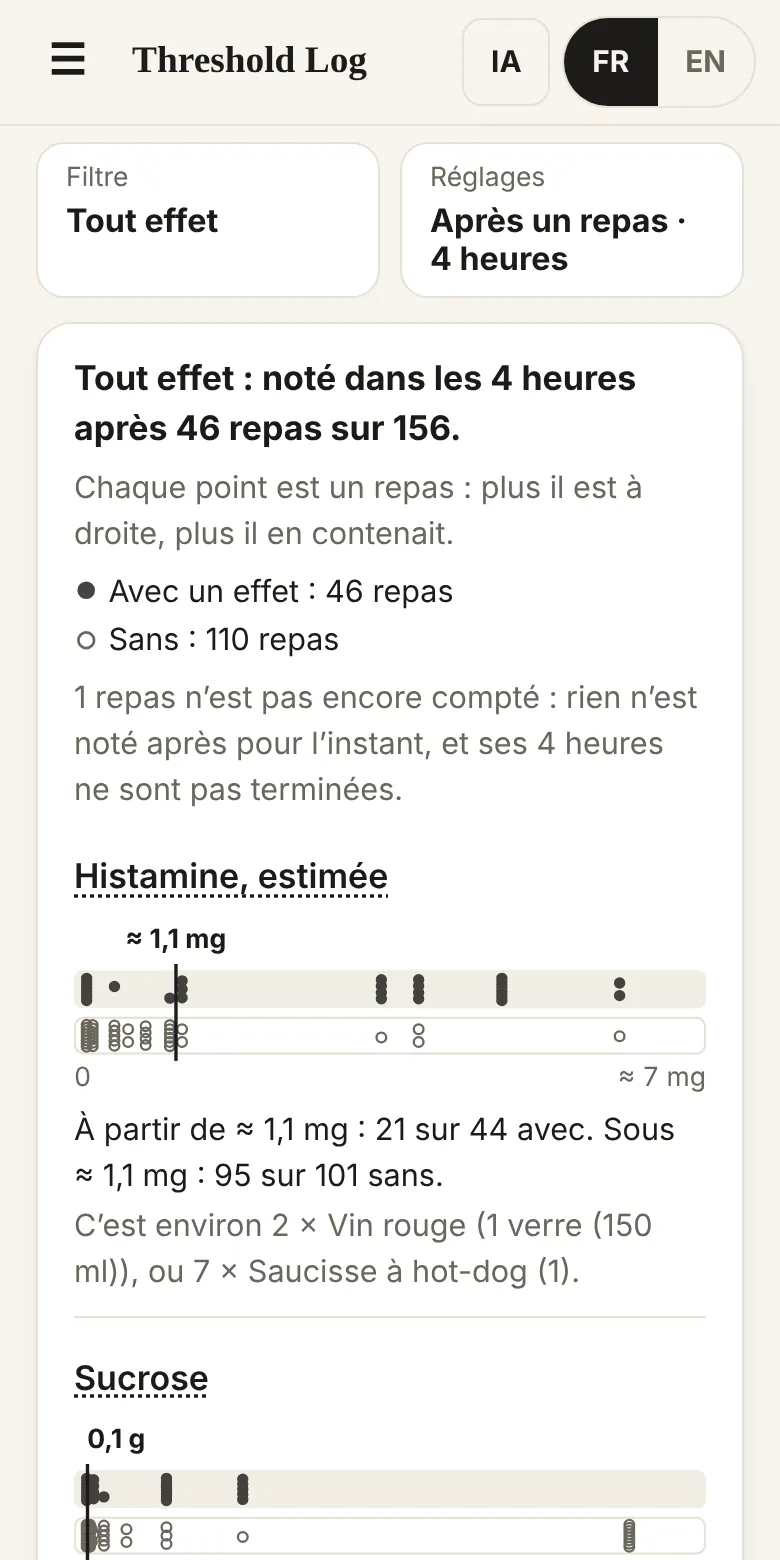
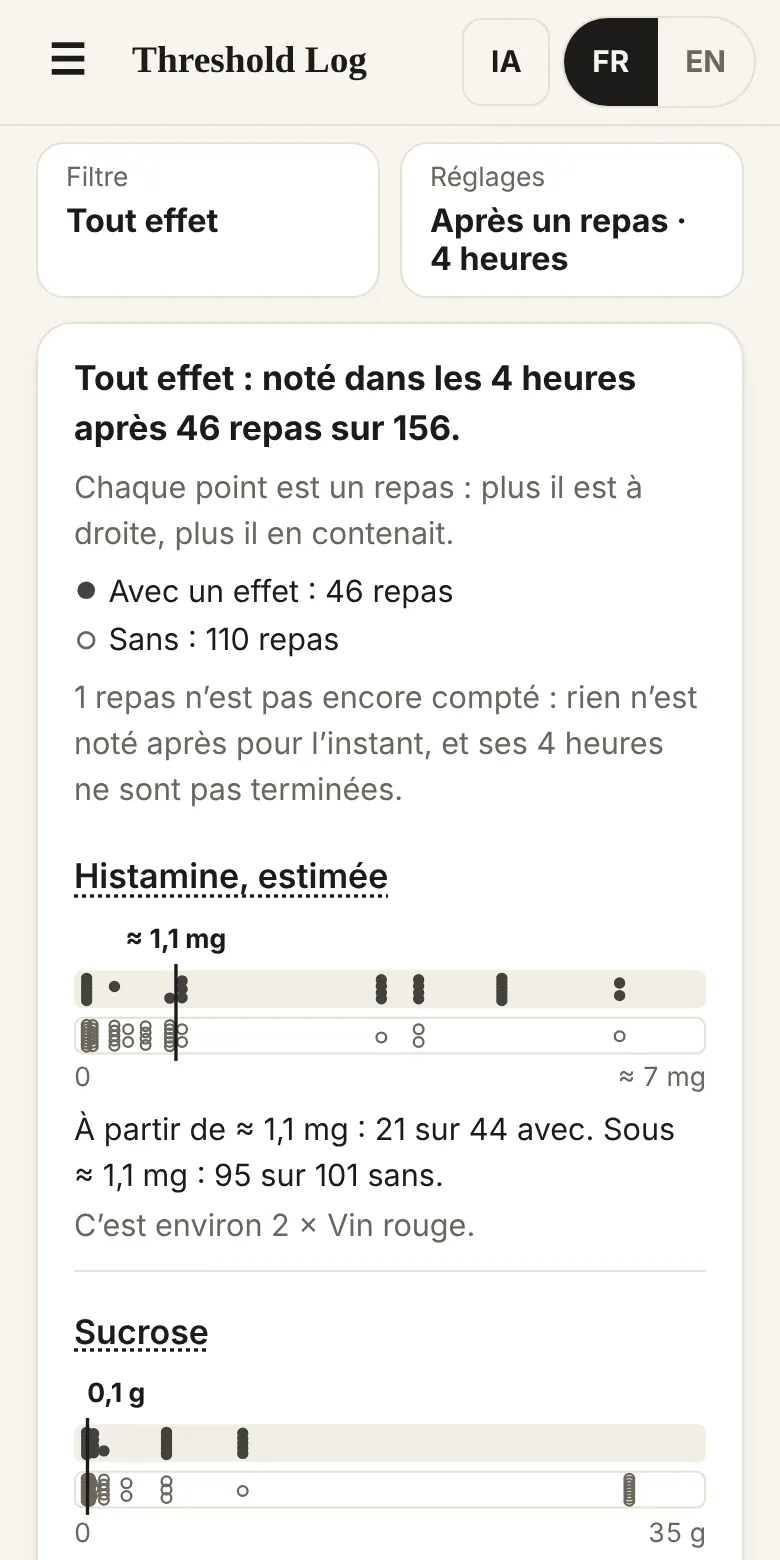
Threshold Log: one food in the "That’s about" line
The line under a mark in the Threshold tab named two foods with their
servings in brackets ("That’s about 2 × Wine, red (1 glass (150 ml)),
or 7 × Hot dog wiener (1).") and ran to three lines at 320 pixels. It
now names the one food that held the compound on the most meals or
days, as the meal list writes a food: "That’s about 2 × Wine, red." /
« C’est environ 2 × Vin rouge. »

The page's pictures are made again (pictures.js); the home and step
pictures also pick up tonight's French. threshold/README.md says so.
All tests pass.

Claude-Session: https://claude.ai/code/session_0165oQGZXNu1ULEJPAkewgjN

Changed region(s): [[0.0923, 0.7692, 0.9231, 1.0]]

diff --git a/threshold/app/index.html b/threshold/app/index.html
@@ -1248,12 +1248,12 @@ function dotSvg(r,label){ const X=x=>dotX(r,x); let a='', b='';
 function markTxt(b,s){ if(s.at==null) return ''; const at=amtTxt(b,s.at);
   const hi=L(`From ${at} up`,`À partir de ${at}`), lo=L(`Under ${at}`,`Sous ${at}`), wi=L(`${s.hitIn} of ${s.nHit} with`,`${s.hitIn} sur ${s.nHit} avec`), wo=L(`${s.restIn} of ${s.nRest} without`,`${s.restIn} sur ${s.nRest} sans`);
   return s.dir==='down'?`${lo}${COL()}${wi}. ${hi}${COL()}${wo}.`:`${hi}${COL()}${wi}. ${lo}${COL()}${wo}.`; }
-/* the mark in the person's own foods: for the two foods that held it on the most of their meals or days, how many servings come to its amount.
-   Only where a row is in grams or milligrams; a row in portions already reads in portions. */
+/* the mark in the person's own foods: for the food that held it on the most of their meals or days, how many servings come to its amount,
+   written as the meal list writes a food ("2 × Wine, red"). Only where a row is in grams or milligrams; a row in portions already reads in portions. */
 const half=n=>n<2?Math.max(.5,Math.round(n*2)/2):Math.round(n), qn=n=>(n%1?(Math.floor(n)?Math.floor(n):'')+'½':String(n));
-function inFoods(r){ if(r.s.at==null||isP(r.b)) return ''; const F=lineFoods({b:r.b,mode:S.tmode,units:r.units}).map(a=>{ const p=E.amounts(food(a.key),1)[r.b]; return p>E.ZEPS?{f:food(a.key),n:r.s.at/p}:null; }).filter(a=>a&&a.n>=.25&&a.n<=30).slice(0,2);
-  if(!F.length) return ''; const one=a=>`${qn(half(a.n))} × ${fname(a.f)}${fserv(a.f)?' ('+fserv(a.f)+')':''}`;
-  return L('That’s about ','C’est environ ')+F.map(one).join(L(', or ',', ou '))+'.'; }
+function inFoods(r){ if(r.s.at==null||isP(r.b)) return ''; const F=lineFoods({b:r.b,mode:S.tmode,units:r.units}).map(a=>{ const p=E.amounts(food(a.key),1)[r.b]; return p>E.ZEPS?{f:food(a.key),n:r.s.at/p}:null; }).filter(a=>a&&a.n>=.25&&a.n<=30).slice(0,1);
+  if(!F.length) return '';
+  return L('That’s about ','C’est environ ')+`${qn(half(F[0].n))} × ${fname(F[0].f)}.`; }
 function dotRow(r,kid){ const s=r.s, nm=L(BARN[r.b][0],BARN[r.b][1]), at=s.at==null?null:amtTxt(r.b,s.at), pc=s.at==null?0:100*markX(r)/DW, txt=markTxt(r.b,s), inf=inFoods(r);
   const label=nm+L(': ',' : ')+L(`${s.nHit} with, ${s.nRest} without, by amount.`,`${s.nHit} avec, ${s.nRest} sans, selon la quantité.`)+(txt?' '+txt:'');
   return `<li class="drow${kid?' kid':''}" data-k="${r.b}" data-hit="${s.nHit}" data-rest="${s.nRest}"${s.at==null?'':` data-at="${s.at}" data-dir="${s.dir}" data-hitin="${s.hitIn}" data-restin="${s.restIn}"`}><button type="button" class="rowb" data-act="rowsheet" data-k="${r.b}">${nm}</button>

diff --git a/tools/threshold/src/app_b.js b/tools/threshold/src/app_b.js
@@ -158,12 +158,12 @@ function dotSvg(r,label){ const X=x=>dotX(r,x); let a='', b='';
 function markTxt(b,s){ if(s.at==null) return ''; const at=amtTxt(b,s.at);
   const hi=L(`From ${at} up`,`À partir de ${at}`), lo=L(`Under ${at}`,`Sous ${at}`), wi=L(`${s.hitIn} of ${s.nHit} with`,`${s.hitIn} sur ${s.nHit} avec`), wo=L(`${s.restIn} of ${s.nRest} without`,`${s.restIn} sur ${s.nRest} sans`);
   return s.dir==='down'?`${lo}${COL()}${wi}. ${hi}${COL()}${wo}.`:`${hi}${COL()}${wi}. ${lo}${COL()}${wo}.`; }
-/* the mark in the person's own foods: for the two foods that held it on the most of their meals or days, how many servings come to its amount.
-   Only where a row is in grams or milligrams; a row in portions already reads in portions. */
+/* the mark in the person's own foods: for the food that held it on the most of their meals or days, how many servings come to its amount,
+   written as the meal list writes a food ("2 × Wine, red"). Only where a row is in grams or milligrams; a row in portions already reads in portions. */
 const half=n=>n<2?Math.max(.5,Math.round(n*2)/2):Math.round(n), qn=n=>(n%1?(Math.floor(n)?Math.floor(n):'')+'½':String(n));
-function inFoods(r){ if(r.s.at==null||isP(r.b)) return ''; const F=lineFoods({b:r.b,mode:S.tmode,units:r.units}).map(a=>{ const p=E.amounts(food(a.key),1)[r.b]; return p>E.ZEPS?{f:food(a.key),n:r.s.at/p}:null; }).filter(a=>a&&a.n>=.25&&a.n<=30).slice(0,2);
-  if(!F.length) return ''; const one=a=>`${qn(half(a.n))} × ${fname(a.f)}${fserv(a.f)?' ('+fserv(a.f)+')':''}`;
-  return L('That’s about ','C’est environ ')+F.map(one).join(L(', or ',', ou '))+'.'; }
+function inFoods(r){ if(r.s.at==null||isP(r.b)) return ''; const F=lineFoods({b:r.b,mode:S.tmode,units:r.units}).map(a=>{ const p=E.amounts(food(a.key),1)[r.b]; return p>E.ZEPS?{f:food(a.key),n:r.s.at/p}:null; }).filter(a=>a&&a.n>=.25&&a.n<=30).slice(0,1);
+  if(!F.length) return '';
+  return L('That’s about ','C’est environ ')+`${qn(half(F[0].n))} × ${fname(F[0].f)}.`; }
 function dotRow(r,kid){ const s=r.s, nm=L(BARN[r.b][0],BARN[r.b][1]), at=s.at==null?null:amtTxt(r.b,s.at), pc=s.at==null?0:100*markX(r)/DW, txt=markTxt(r.b,s), inf=inFoods(r);
   const label=nm+L(': ',' : ')+L(`${s.nHit} with, ${s.nRest} without, by amount.`,`${s.nHit} avec, ${s.nRest} sans, selon la quantité.`)+(txt?' '+txt:'');
   return `<li class="drow${kid?' kid':''}" data-k="${r.b}" data-hit="${s.nHit}" data-rest="${s.nRest}"${s.at==null?'':` data-at="${s.at}" data-dir="${s.dir}" data-hitin="${s.hitIn}" data-restin="${s.restIn}"`}><button type="button" class="rowb" data-act="rowsheet" data-k="${r.b}">${nm}</button>

diff --git a/threshold/app/sw.js b/threshold/app/sw.js
@@ -1,7 +1,7 @@
 /* Threshold Log — offline cache. A new app version changes CACHE, so phones pick it up on the next open with a connection.
    Copyright (C) 2026  Tobie David · SPDX-License-Identifier: AGPL-3.0-or-later, with two terms under its section 7 (see the notice
    at the top of index.html) · https://github.com/tobiedavid/v3ktor.org */
-const CACHE='thresholdlog-0.5.2-fd83daf0';
+const CACHE='thresholdlog-0.5.2-1b84dbf3';
 const SHELL=['./','index.html','manifest.webmanifest','icons/icon-192.png','icons/icon-512.png','icons/maskable-512.png','icons/apple-touch-icon.png','icons/favicon-32.png'];
 self.addEventListener('install',e=>{ e.waitUntil(caches.open(CACHE).then(c=>c.addAll(SHELL)).then(()=>self.skipWaiting())); });
 self.addEventListener('activate',e=>{ e.waitUntil(caches.keys().then(ks=>Promise.all(ks.filter(k=>k.startsWith('thresholdlog-')&&k!==CACHE).map(k=>caches.delete(k)))).then(()=>self.clients.claim())); });

diff --git a/threshold/README.md b/threshold/README.md
@@ -85,7 +85,7 @@ A row appears only when a counted meal or day held some of it (since 0.4.1 this 
 
 **Tu and vous.** Since 0.4.17 the app's page says « vous », as the front page does: public pages say « vous », the app says « tu » because it is a private place. The French of both pages is a second reader's (Argon), kept as written except where a test or a rule holds the words: the five statements (the app's, in the first person), the attribution line, the labels on screen (Seuil, Inconfort au ventre, Douleur aux articulations, Peu d'énergie, relevé, Qu'on me laisse tranquille) and the no-break space before « : ». A test checks the page for a stray « tu ».
 
-**The kinds, and the mark in your own foods.** Since 0.5.0 the tab can have 35 rows: the kinds of fat and of sugar sit under their row (`E.KIDS`, `E.grouped`): a group stands where its best row would, and a kind is indented only when its row is in the same list just above it. Under a mark in grams or milligrams, the line `.dfd` gives the same amount in the person's own foods: for the two foods that held it on the most meals or days, about how many servings come to it (between ¼ and 30, to the half under 2). Amounts closer than a thousandth of a row's highest (to a power of ten) count as one amount (`E.snap`), so no mark falls between two amounts the picture can't tell apart. The kinds and the minerals are rows, not compounds: they don't count toward "5 compounds or more" and aren't in the copied text's list of compounds per meal.
+**The kinds, and the mark in your own foods.** Since 0.5.0 the tab can have 35 rows: the kinds of fat and of sugar sit under their row (`E.KIDS`, `E.grouped`): a group stands where its best row would, and a kind is indented only when its row is in the same list just above it. Under a mark in grams or milligrams, the line `.dfd` gives the same amount in the person's own foods: for the food that held it on the most meals or days, about how many servings come to it (between ¼ and 30, to the half under 2), written as the meal list writes a food: "That’s about 2 × Wine, red." (Before 0.5.2's November update it named two foods with their servings, which ran to three lines on a small phone.) Amounts closer than a thousandth of a row's highest (to a power of ten) count as one amount (`E.snap`), so no mark falls between two amounts the picture can't tell apart. The kinds and the minerals are rows, not compounds: they don't count toward "5 compounds or more" and aren't in the copied text's list of compounds per meal.
 
 **How to read it.** The first time the tab is opened, a card at its top shows two made-up rows (one an amount separates, one it doesn't), says what the dots are, and ends with "The more meals you report, the more accurate it gets." It stays until "Got it" is tapped (`seenThr` in the saved data); "How to read this tab", under the rows, brings it back. Since 0.4.6 the paragraph under the heading is one line once the card is closed ("Each dot is a meal: the further right, the more it had."); while the card is up it also says where the mark stands and which rows come first.
 
